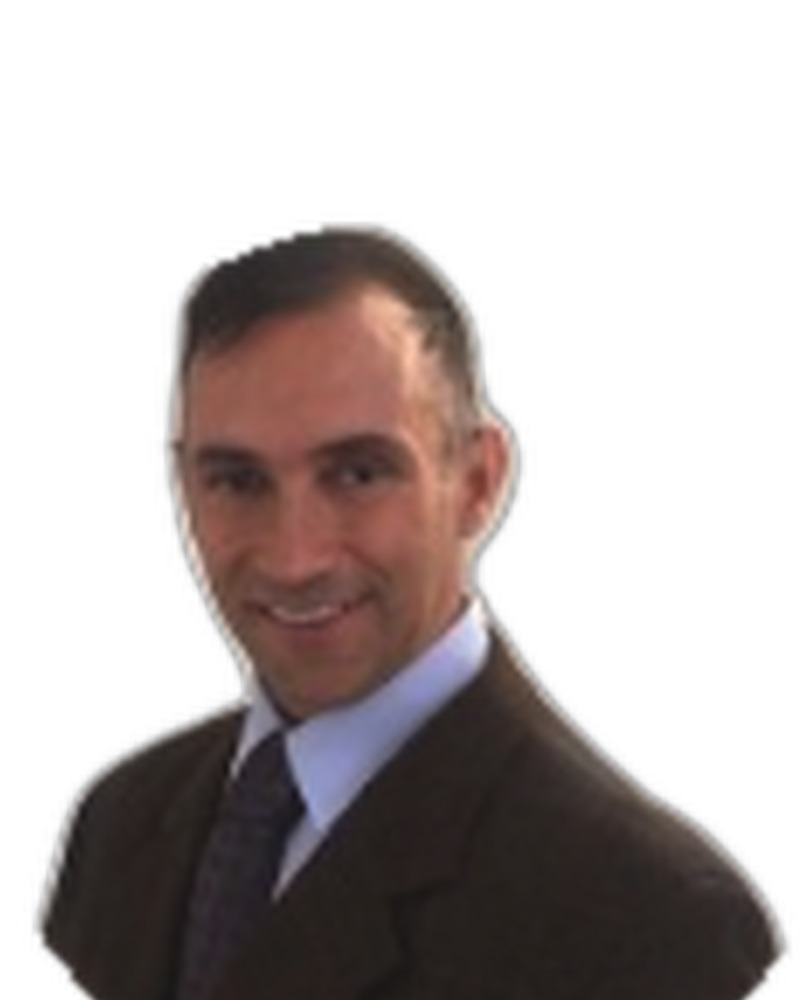
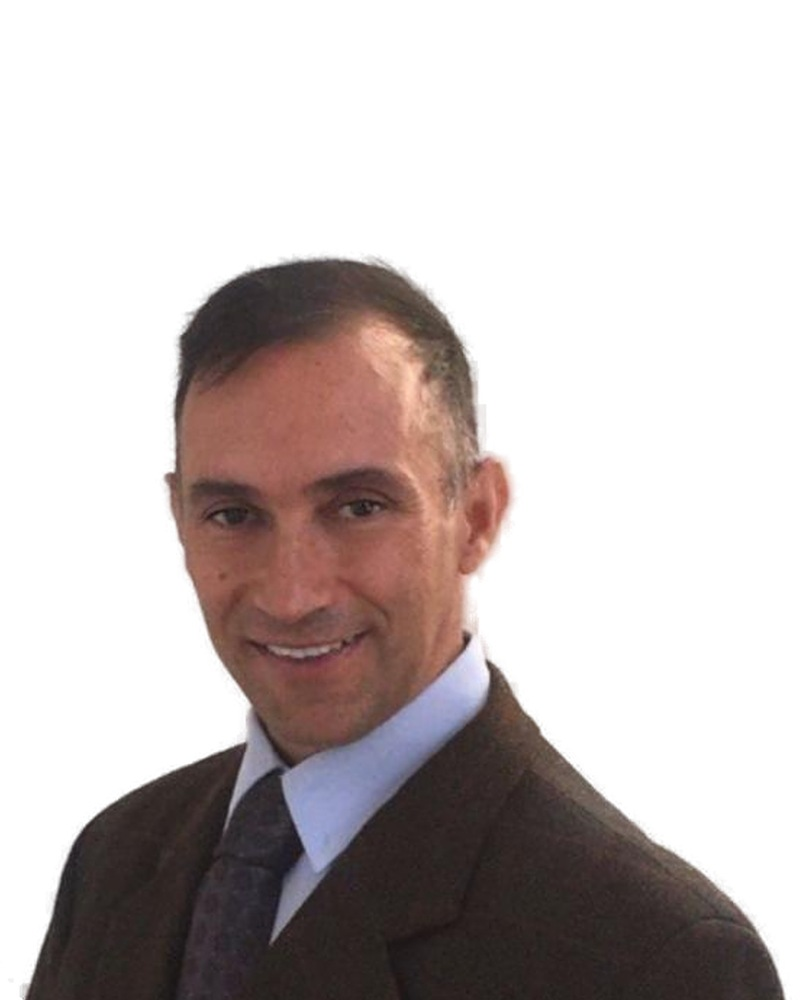
Foto real de Miguel en la landing
Claude-Session: https://claude.ai/code/session_01Mx2ujS5TggcpC47maZDiuj

Changed region(s): [[0.0, 0.217, 1.0, 1.0]]

diff --git a/src/components/Hero.tsx b/src/components/Hero.tsx
@@ -96,7 +96,7 @@ export const Hero: React.FC<HeroProps> = ({
 
   const handleSelectPortrait = (type: 'ai' | 'real') => {
     if (type === 'ai') {
-      if (onUpdateAvatar) onUpdateAvatar('/foto-miguel.svg');
+      if (onUpdateAvatar) onUpdateAvatar('/foto-miguel.jpg');
     } else {
       if (uploadedRealPhoto) {
         if (onUpdateAvatar) onUpdateAvatar(uploadedRealPhoto);
@@ -267,7 +267,7 @@ export const Hero: React.FC<HeroProps> = ({
                     referrerPolicy="no-referrer"
                     onError={(e) => {
                       (e.target as HTMLImageElement).src =
-                        '/foto-miguel.svg';
+                        '/foto-miguel.jpg';
                     }}
                   />
 

diff --git a/src/App.tsx b/src/App.tsx
@@ -16,7 +16,7 @@ import { ExportModal } from './components/ExportModal';
 import { QRCodeModal } from './components/QRCodeModal';
 import { Sparkles, X } from 'lucide-react';
 
-const STORAGE_KEY = 'landing_miguel_garcia_amador_v3';
+const STORAGE_KEY = 'landing_miguel_garcia_amador_v4';
 
 export default function App() {
   // Load saved state or default
@@ -33,7 +33,7 @@ export default function App() {
             prevAvatar !== '/leymis-real-headshot.jpg' &&
             prevAvatar !== '/Foto.png'
               ? prevAvatar
-              : '/foto-miguel.svg';
+              : '/foto-miguel.jpg';
           return {
             ...defaultPortfolio,
             personal: {

diff --git a/src/data/defaultPortfolio.ts b/src/data/defaultPortfolio.ts
@@ -9,7 +9,7 @@ export const defaultPortfolio: PortfolioData = {
     location: 'Madrid, España · Proyectos en España y en el exterior',
     email: 'miguelgarciaamador@hotmail.com',
     phone: '+34 613 370 218',
-    avatarUrl: '/foto-miguel.svg',
+    avatarUrl: '/foto-miguel.jpg',
     availability: 'available',
     availabilityText: 'Consultoría de dirección para pymes y empresas familiares',
     socialLinks: {
